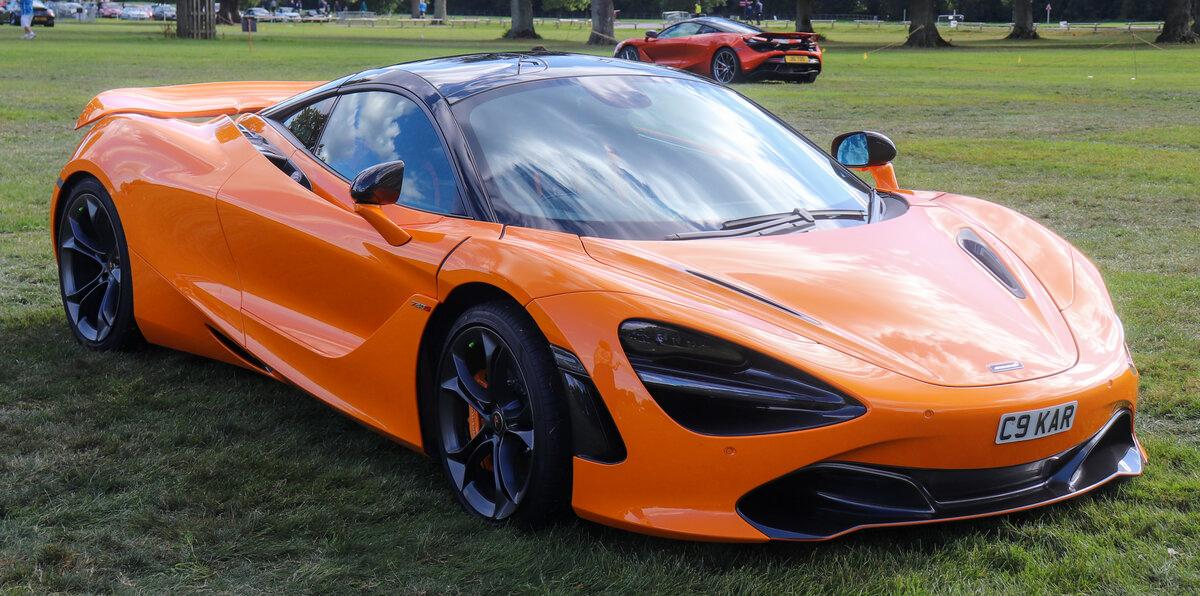
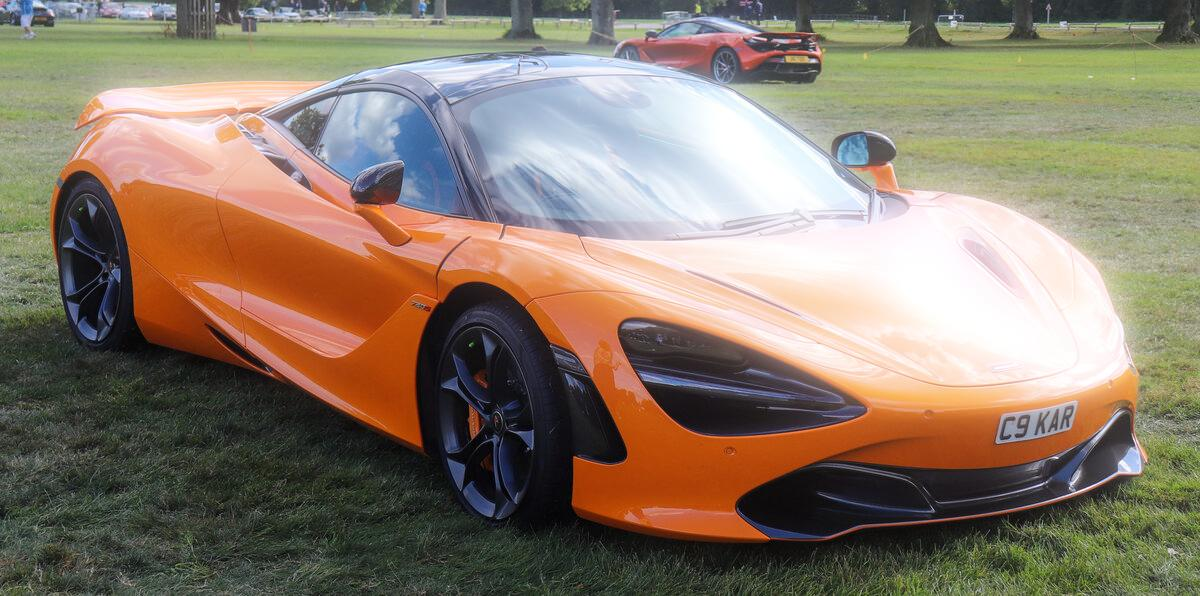
feat: drop crt, stronger examples, group colour and drawing patches
Josh does not need crt. The bloom, tile-shuffle and raw-bend examples
were too subtle at README size, so they are regenerated with stronger
options, named on a new Example line; the patches' defaults are
unchanged. The README now lists the colour patches together, then the
drawing patches, after the rest.

diff --git a/tests/test_new_patch_inputs.py b/tests/test_new_patch_inputs.py
@@ -23,7 +23,6 @@ NEW_PATCHES = [
     ("oil-paint", "oilpaint"),
     ("tilt-shift", "tiltshift"),
     ("flow-streak", "flow"),
-    ("crt", "crt"),
     ("dither", "dither"),
     ("jpeg-rot", "jpegrot"),
     ("ascii", "ascii"),

diff --git a/tests/test_op_cli.py b/tests/test_op_cli.py
@@ -25,7 +25,6 @@ ALL_PATCHES = [
     "oil-paint",
     "tilt-shift",
     "flow-streak",
-    "crt",
     "dither",
     "jpeg-rot",
     "ascii",

diff --git a/README.md b/README.md
@@ -60,17 +60,6 @@ Default: `--size 64`
 
 ![res-crush example](_output/mclaren-pixelate-64.jpg)
 
-### closest-palette
-
-Snap every pixel to its nearest color in a given palette. No dithering -- hard color boundaries.
-
-```bash
-python3 ./closest-palette/closest-palette.py <input> [output] --palette "#hex,#hex,..."
-python3 ./closest-palette/closest-palette.py <input> [output] --from-image ref.png --colors N
-```
-
-![closest-palette example](_output/mclaren-palette.jpg)
-
 ### channel-offset
 
 Shift R, G, B channels by independent pixel amounts for a misregistered print / chromatic aberration look.
@@ -115,59 +104,6 @@ python3 ./scan-glitch/scan-glitch.py <input> [output] [--severity N] [--seed N]
 
 ![scan-glitch example](_output/mclaren-glitch.jpg)
 
-### dot-halftone
-
-Convert to a halftone dot grid where dot size varies with brightness. Pink dots on transparent background.
-
-```bash
-python3 ./dot-halftone/dot-halftone.py <input> [output] [--spacing N] [--min-dot N] [--max-dot N] [--angle N]
-```
-
-![dot-halftone example](_output/mclaren-halftone.jpg)
-
-### line-halftone
-
-Variable-width lines whose thickness maps to brightness. Pink lines on transparent background.
-
-```bash
-python3 ./line-halftone/line-halftone.py <input> [output] [--spacing N] [--min-width N] [--max-width N] [--angle N]
-```
-
-![line-halftone example](_output/mclaren-lines.jpg)
-
-### cross-hatch
-
-Multiple line-halftone passes at different angles, each gated by a brightness threshold. Darker areas get more layers of hatching. Pink lines on transparent background.
-
-```bash
-python3 ./cross-hatch/cross-hatch.py <input> [output] [--layers N] [--spacing N] [--thresholds N,N,N]
-```
-
-![cross-hatch example](_output/mclaren-hatch.jpg)
-
-### stipple
-
-Random dot placement where density maps to brightness. Pink dots on transparent background.
-
-```bash
-python3 ./stipple/stipple.py <input> [output] [--dots N] [--dot-size N] [--seed N]
-```
-
-![stipple example](_output/mclaren-stipple.jpg)
-
-
-### isolate-threshold
-
-Extract dark pixels from an image with a transparent background. Optionally recolor them and upscale with nearest-neighbor.
-
-```bash
-./isolate-threshold/isolate-threshold.sh <input> [output] [--scale N] [--threshold N] [--color "#hex"]
-```
-
-Default: `--scale 1 --threshold 50 --color "#ff0000"`
-
-![isolate-threshold example](_output/mclaren-threshold.jpg)
-
 ### channel-swap
 
 Rearrange RGB channels — swap, duplicate, or reorder color channels.
@@ -191,16 +127,6 @@ python3 ./echo/echo.py <input> [output] [--count N] [--offset-x N] [--offset-y N
 Default: `--count 12 --offset-x 30 --offset-y 12 --decay 0.6 --blend additive`
 
 ![echo example](_output/mclaren-echo.jpg)
-
-### invert-lightness
-
-Invert the lightness channel in LAB color space — dark becomes light and vice versa, while hue and saturation are preserved.
-
-```bash
-python3 ./invert-lightness/invert-lightness.py <input> [output]
-```
-
-![invert-lightness example](_output/mclaren-invl.jpg)
 
 ### kaleidoscope
 
@@ -226,18 +152,6 @@ Default: `--mode to-polar`
 
 ![polar example](_output/mclaren-polar.jpg)
 
-### posterize-hsv
-
-Quantize HSV channels independently for a posterized look with hue control.
-
-```bash
-python3 ./posterize-hsv/posterize-hsv.py <input> [output] [--h-levels N] [--s-levels N] [--v-levels N]
-```
-
-Default: `--h-levels 8 --s-levels 4 --v-levels 4`
-
-![posterize-hsv example](_output/mclaren-posterize.jpg)
-
 ### raw-bend
 
 Treat pixel data as a raw audio signal and apply echo, chorus, and bitcrush distortion.
@@ -247,6 +161,8 @@ python3 ./raw-bend/raw-bend.py <input> [output] [--echo-strength N] [--echo-dela
 ```
 
 Default: `--echo-strength 0.5 --echo-delay 500 --chorus 0.3 --bitcrush 0`
+
+Example: `--echo-strength 0.8 --echo-delay 2000 --chorus 0.7`
 
 ![raw-bend example](_output/mclaren-rawbend.jpg)
 
@@ -274,16 +190,6 @@ Default: `--slits <width> --max-angle 180`
 
 ![slit-scan example](_output/mclaren-slitscan.jpg)
 
-### thermal
-
-Map brightness to a false-color thermal palette (black to blue to red to yellow to white).
-
-```bash
-python3 ./thermal/thermal.py <input> [output]
-```
-
-![thermal example](_output/mclaren-thermal.jpg)
-
 ### tile-shuffle
 
 Chop the image into an NxN grid and randomly permute the tiles.
@@ -293,6 +199,8 @@ python3 ./tile-shuffle/tile-shuffle.py <input> [output] [--grid N] [--seed N]
 ```
 
 Default: `--grid 4`
+
+Example: `--grid 8`
 
 ![tile-shuffle example](_output/mclaren-shuffle.jpg)
 
@@ -392,18 +300,6 @@ Default: `--levels 16 --blur 2 --width 1 --color #ec4899 --amount 1`
 
 ![contour example](_output/mclaren-contour.jpg)
 
-### hue-isolate
-
-Keep one hue band in full colour and turn everything else grey.
-
-```bash
-python3 ./hue-isolate/hue-isolate.py <input> [output] [--hue DEG] [--width DEG] [--amount N]
-```
-
-Default: `--hue 25 --width 20 --amount 1` (orange)
-
-![hue-isolate example](_output/mclaren-hueiso.jpg)
-
 ### bloom
 
 Pull out the highlights, blur them at three radii and screen them back for a soft glow.
@@ -413,6 +309,8 @@ python3 ./bloom/bloom.py <input> [output] [--amount N] [--threshold N] [--radius
 ```
 
 Default: `--amount 1 --threshold 170 --radius 8`
+
+Example: `--amount 2 --threshold 110 --radius 16`
 
 ![bloom example](_output/mclaren-bloom.jpg)
 
@@ -464,18 +362,6 @@ Default: `--length 36 --sigma 6`
 
 ![flow-streak example](_output/mclaren-flow.jpg)
 
-### crt
-
-Show the image on a simulated CRT: curved glass, an RGB stripe mask, scanlines and a slight glow.
-
-```bash
-python3 ./crt/crt.py <input> [output] [--amount N] [--pitch PX] [--curve N]
-```
-
-Default: `--amount 1 --pitch 3 --curve 0.12`
-
-![crt example](_output/mclaren-crt.jpg)
-
 ### dither
 
 Dither to N levels per channel with a Bayer matrix, or with Floyd–Steinberg or Atkinson error diffusion. Error diffusion takes a few seconds on the README image.
@@ -511,3 +397,110 @@ python3 ./ascii/ascii.py <input> [output] [--cell PX] [--charset CHARS]
 Default: `--cell 10 --charset " .:-=+*#%@"`
 
 ![ascii example](_output/mclaren-ascii.jpg)
+
+### isolate-threshold
+
+Extract dark pixels from an image with a transparent background. Optionally recolor them and upscale with nearest-neighbor.
+
+```bash
+./isolate-threshold/isolate-threshold.sh <input> [output] [--scale N] [--threshold N] [--color "#hex"]
+```
+
+Default: `--scale 1 --threshold 50 --color "#ff0000"`
+
+![isolate-threshold example](_output/mclaren-threshold.jpg)
+
+### closest-palette
+
+Snap every pixel to its nearest color in a given palette. No dithering -- hard color boundaries.
+
+```bash
+python3 ./closest-palette/closest-palette.py <input> [output] --palette "#hex,#hex,..."
+python3 ./closest-palette/closest-palette.py <input> [output] --from-image ref.png --colors N
+```
+
+![closest-palette example](_output/mclaren-palette.jpg)
+
+### invert-lightness
+
+Invert the lightness channel in LAB color space — dark becomes light and vice versa, while hue and saturation are preserved.
+
+```bash
+python3 ./invert-lightness/invert-lightness.py <input> [output]
+```
+
+![invert-lightness example](_output/mclaren-invl.jpg)
+
+### posterize-hsv
+
+Quantize HSV channels independently for a posterized look with hue control.
+
+```bash
+python3 ./posterize-hsv/posterize-hsv.py <input> [output] [--h-levels N] [--s-levels N] [--v-levels N]
+```
+
+Default: `--h-levels 8 --s-levels 4 --v-levels 4`
+
+![posterize-hsv example](_output/mclaren-posterize.jpg)
+
+### thermal
+
+Map brightness to a false-color thermal palette (black to blue to red to yellow to white).
+
+```bash
+python3 ./thermal/thermal.py <input> [output]
+```
+
+![thermal example](_output/mclaren-thermal.jpg)
+
+### hue-isolate
+
+Keep one hue band in full colour and turn everything else grey.
+
+```bash
+python3 ./hue-isolate/hue-isolate.py <input> [output] [--hue DEG] [--width DEG] [--amount N]
+```
+
+Default: `--hue 25 --width 20 --amount 1` (orange)
+
+![hue-isolate example](_output/mclaren-hueiso.jpg)
+
+### dot-halftone
+
+Convert to a halftone dot grid where dot size varies with brightness. Pink dots on transparent background.
+
+```bash
+python3 ./dot-halftone/dot-halftone.py <input> [output] [--spacing N] [--min-dot N] [--max-dot N] [--angle N]
+```
+
+![dot-halftone example](_output/mclaren-halftone.jpg)
+
+### line-halftone
+
+Variable-width lines whose thickness maps to brightness. Pink lines on transparent background.
+
+```bash
+python3 ./line-halftone/line-halftone.py <input> [output] [--spacing N] [--min-width N] [--max-width N] [--angle N]
+```
+
+![line-halftone example](_output/mclaren-lines.jpg)
+
+### cross-hatch
+
+Multiple line-halftone passes at different angles, each gated by a brightness threshold. Darker areas get more layers of hatching. Pink lines on transparent background.
+
+```bash
+python3 ./cross-hatch/cross-hatch.py <input> [output] [--layers N] [--spacing N] [--thresholds N,N,N]
+```
+
+![cross-hatch example](_output/mclaren-hatch.jpg)
+
+### stipple
+
+Random dot placement where density maps to brightness. Pink dots on transparent background.
+
+```bash
+python3 ./stipple/stipple.py <input> [output] [--dots N] [--dot-size N] [--seed N]
+```
+
+![stipple example](_output/mclaren-stipple.jpg)
